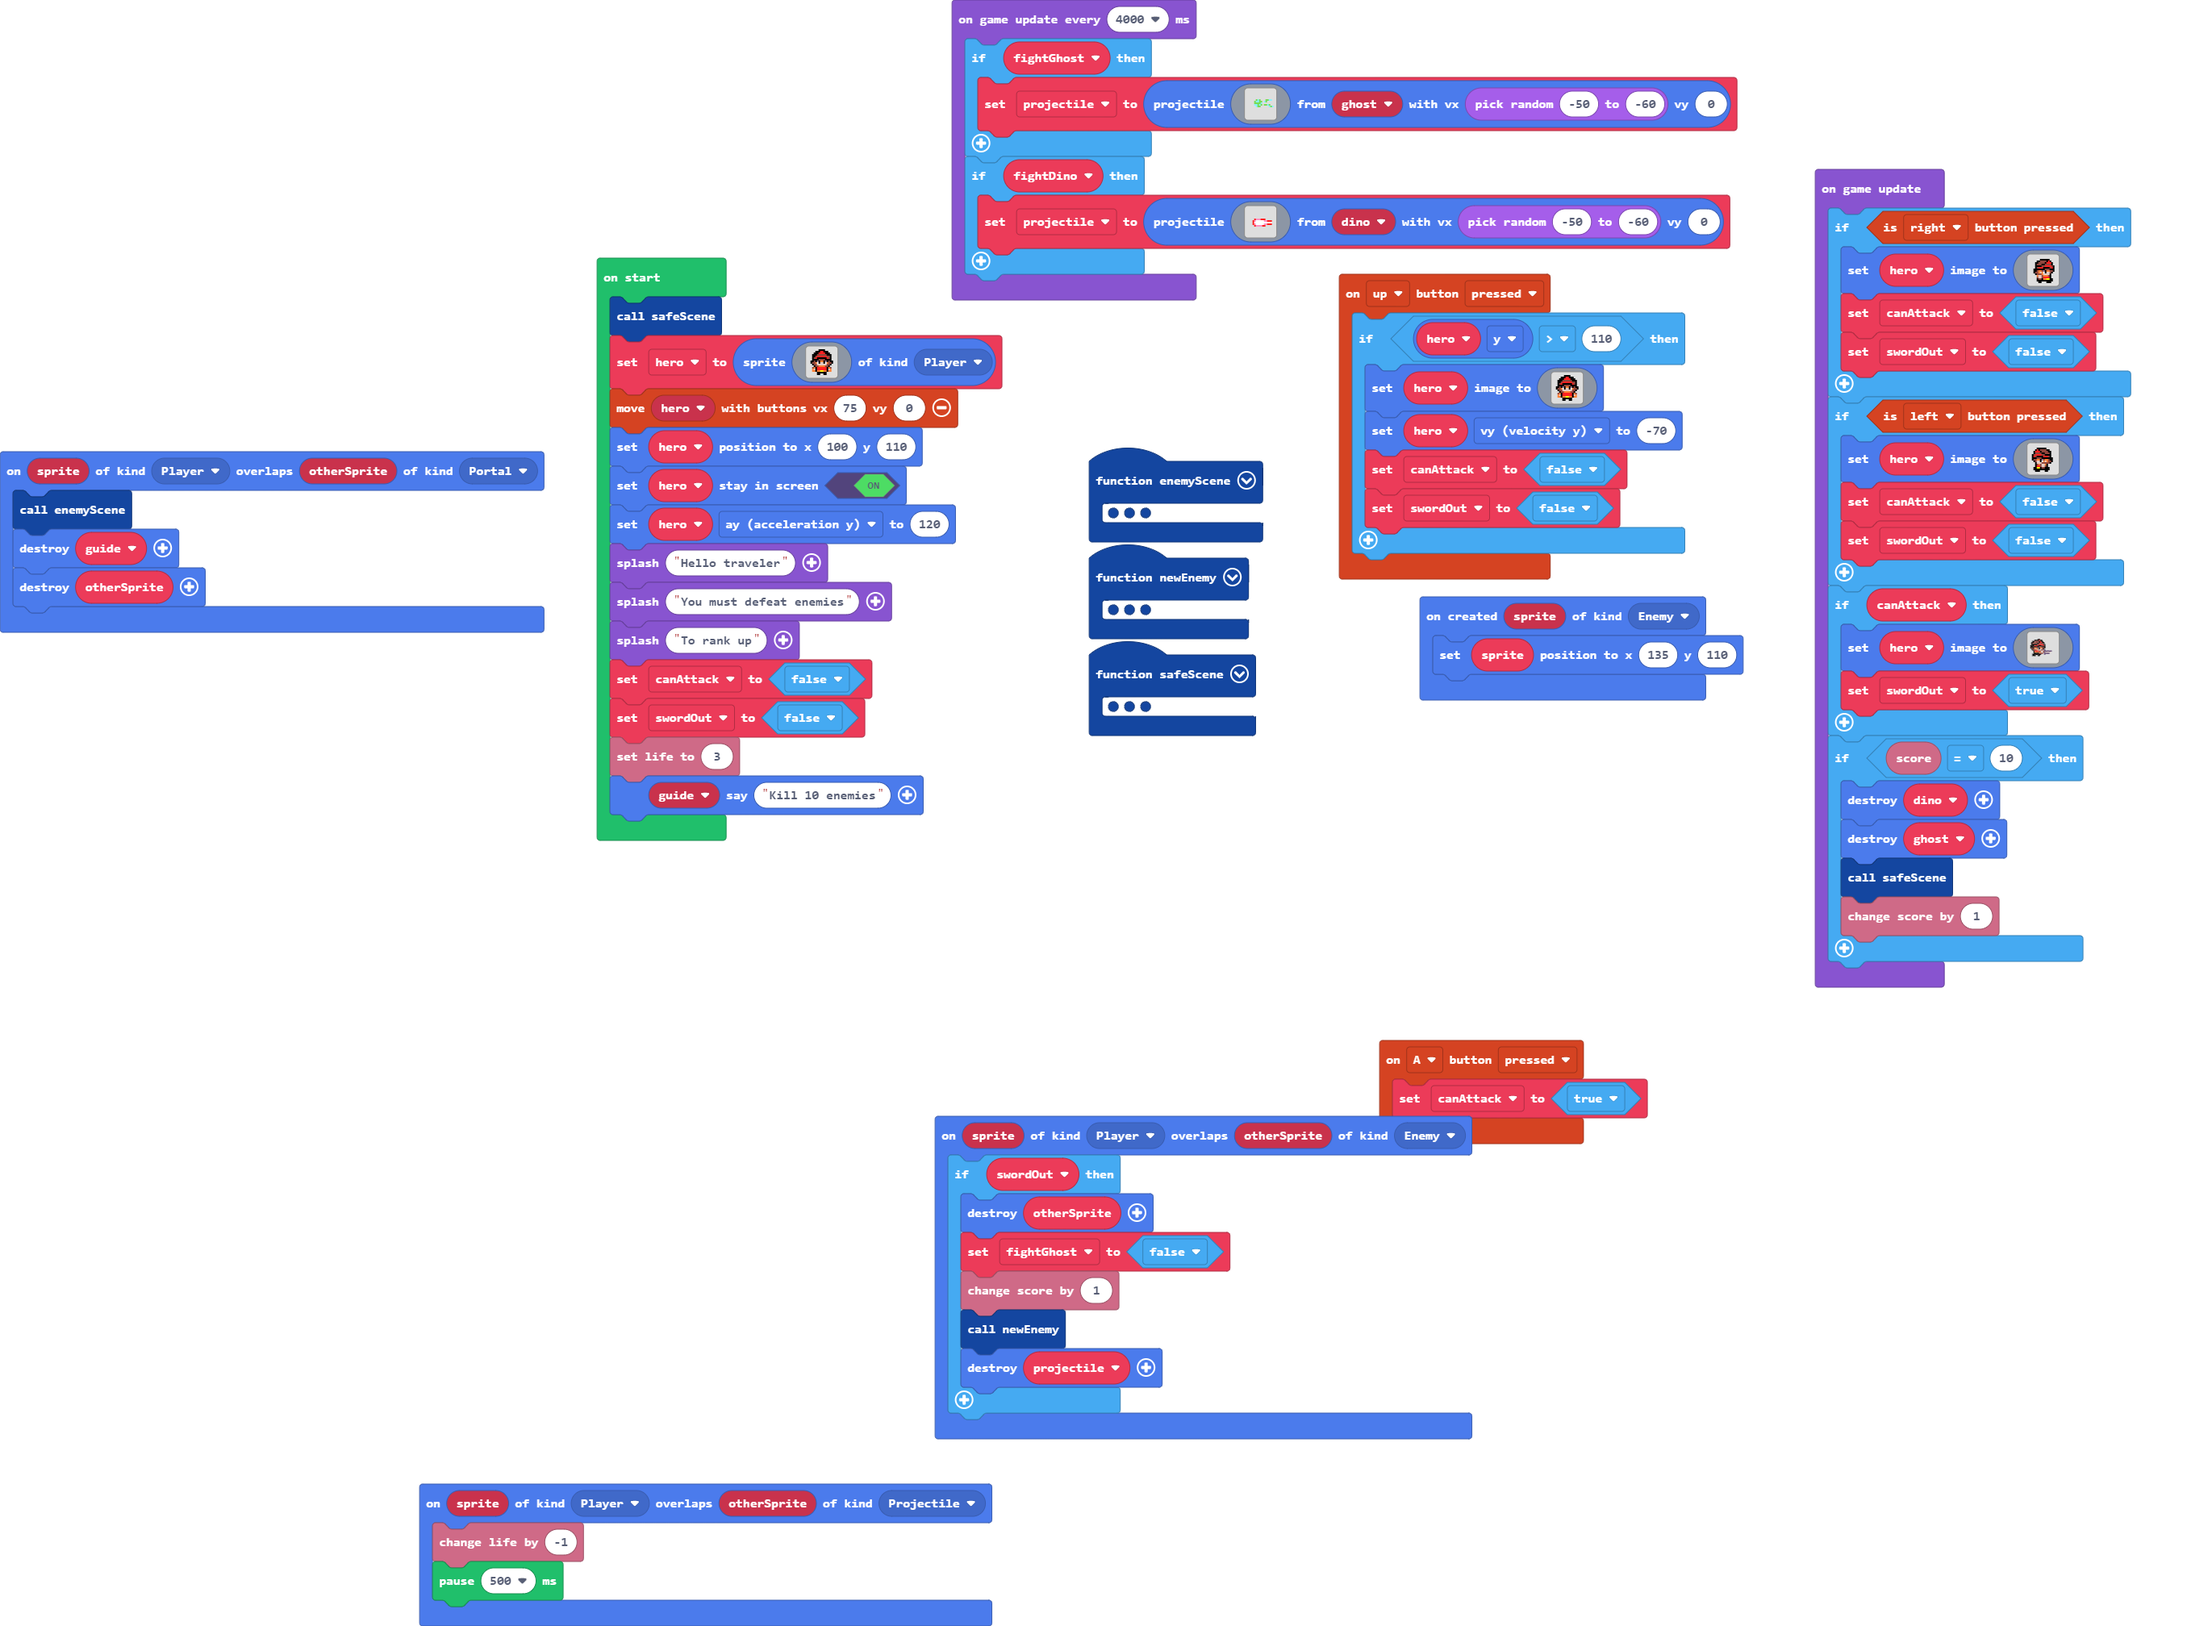
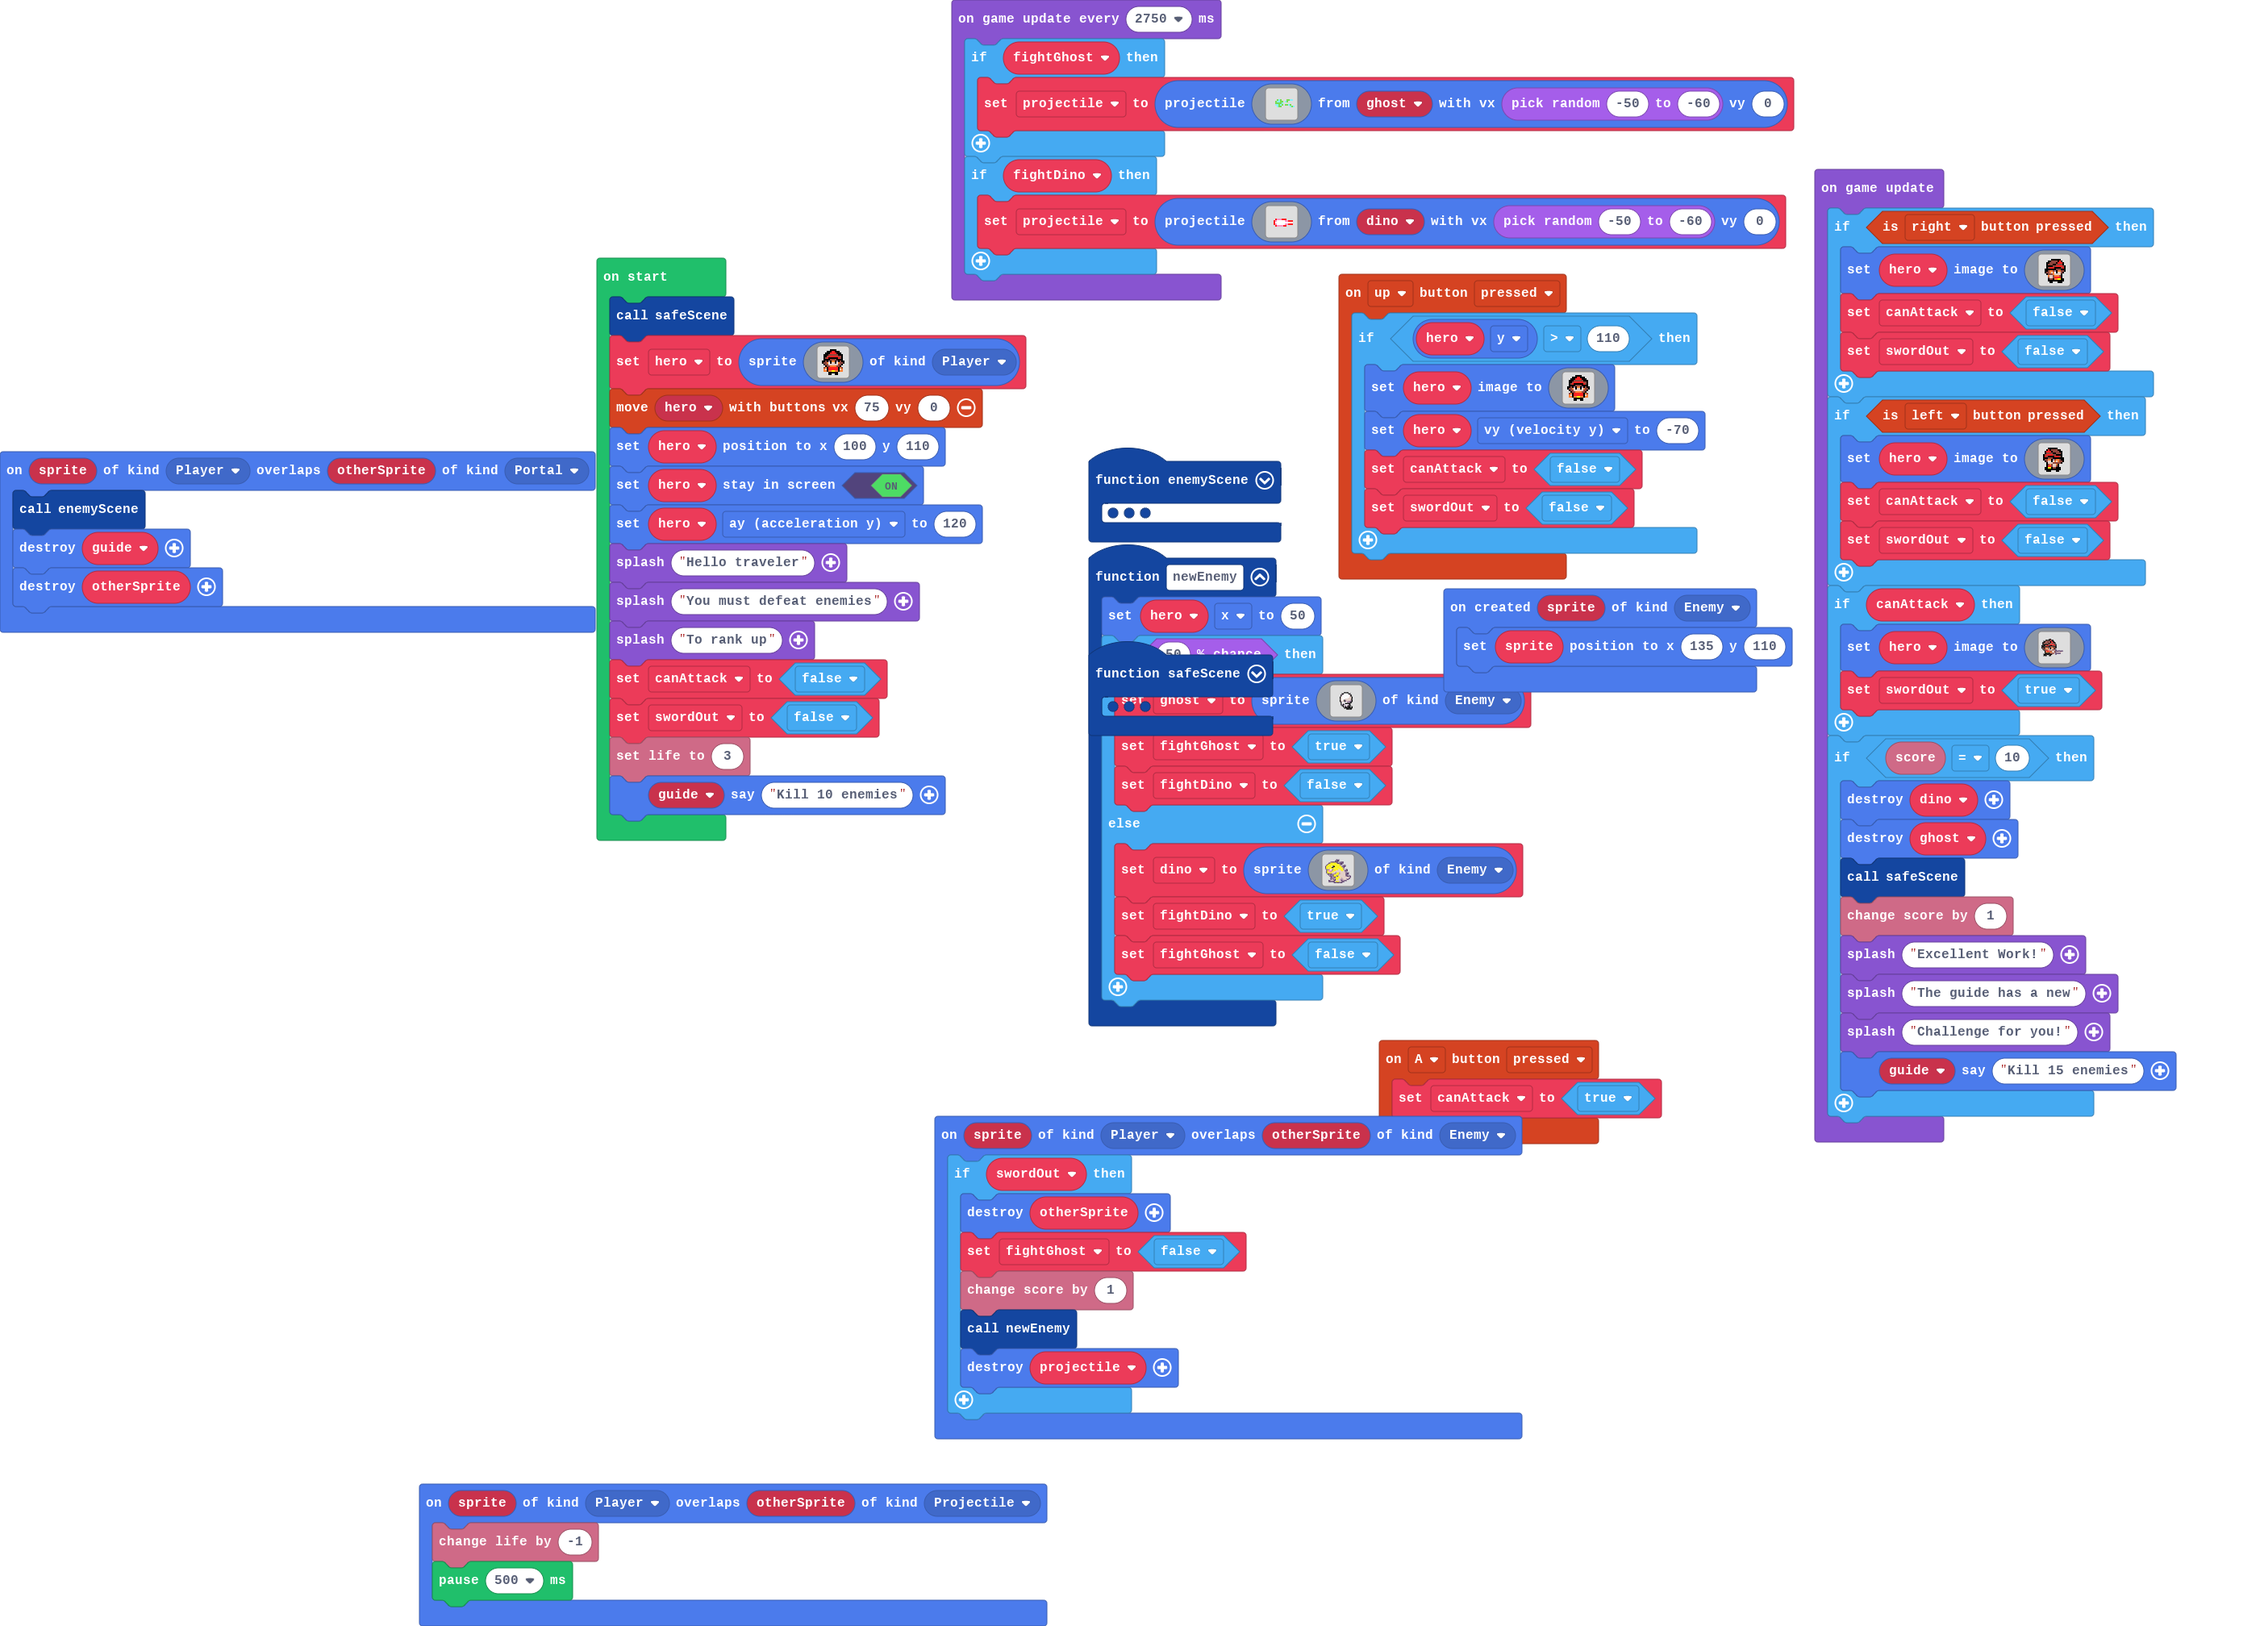
Update main.blocks, main.ts

Changed region(s): [[0.0, 0.0, 0.9915, 0.9375], [0.1859, 0.9062, 0.2789, 1.0], [0.4338, 0.9688, 0.4648, 1.0]]

diff --git a/main.ts b/main.ts
@@ -442,6 +442,48 @@ canAttack = false
 swordOut = false
 info.setLife(3)
 guide.sayText("Kill 10 enemies")
+game.onUpdateInterval(2750, function () {
+    if (fightGhost) {
+        projectile = sprites.createProjectileFromSprite(img`
+            . . . . . . . . . . . . . . . . 
+            . . . . . . . . . . . . . . . . 
+            . . . . . . . . . . . . . . . . 
+            . . . . . . . . . . . . . . . . 
+            . . . . . . . . . . . . . . . . 
+            . . . . . 7 9 7 . . . 7 7 9 9 . 
+            . . . . 7 9 9 7 7 . 9 7 . . . . 
+            . . . . 7 7 7 7 9 . . . . . . . 
+            . . . . 9 9 7 9 7 . 7 7 9 7 . . 
+            . . . . . 9 7 7 . . . . . 9 7 9 
+            . . . . . . . . . . . . . . . . 
+            . . . . . . . . . . . . . . . . 
+            . . . . . . . . . . . . . . . . 
+            . . . . . . . . . . . . . . . . 
+            . . . . . . . . . . . . . . . . 
+            . . . . . . . . . . . . . . . . 
+            `, ghost, randint(-50, -60), 0)
+    }
+    if (fightDino) {
+        projectile = sprites.createProjectileFromSprite(img`
+            . . . . . . . . . . . . . . . . 
+            . . . . . . . . . . . . . . . . 
+            . . . . . . . . . . . . . . . . 
+            . . . . . . . . . . . . . . . . 
+            . . . . . . . . . . . . . . . . 
+            . . . . . . . . . . . . . . . . 
+            . . . . 2 3 3 3 2 2 2 . . . . . 
+            . . . 2 3 1 1 1 1 1 3 3 2 2 2 . 
+            . . . 2 1 1 1 1 1 1 1 1 1 1 1 . 
+            . . . 2 3 1 1 1 1 1 3 3 2 2 2 . 
+            . . . . 2 3 3 3 3 2 2 . . . . . 
+            . . . . . . . . . . . . . . . . 
+            . . . . . . . . . . . . . . . . 
+            . . . . . . . . . . . . . . . . 
+            . . . . . . . . . . . . . . . . 
+            . . . . . . . . . . . . . . . . 
+            `, dino, randint(-50, -60), 0)
+    }
+})
 game.onUpdate(function () {
     if (controller.right.isPressed()) {
         hero.setImage(img`
@@ -513,47 +555,9 @@ game.onUpdate(function () {
         ghost.destroy()
         safeScene()
         info.changeScoreBy(1)
-    }
-})
-game.onUpdateInterval(4000, function () {
-    if (fightGhost) {
-        projectile = sprites.createProjectileFromSprite(img`
-            . . . . . . . . . . . . . . . . 
-            . . . . . . . . . . . . . . . . 
-            . . . . . . . . . . . . . . . . 
-            . . . . . . . . . . . . . . . . 
-            . . . . . . . . . . . . . . . . 
-            . . . . . 7 9 7 . . . 7 7 9 9 . 
-            . . . . 7 9 9 7 7 . 9 7 . . . . 
-            . . . . 7 7 7 7 9 . . . . . . . 
-            . . . . 9 9 7 9 7 . 7 7 9 7 . . 
-            . . . . . 9 7 7 . . . . . 9 7 9 
-            . . . . . . . . . . . . . . . . 
-            . . . . . . . . . . . . . . . . 
-            . . . . . . . . . . . . . . . . 
-            . . . . . . . . . . . . . . . . 
-            . . . . . . . . . . . . . . . . 
-            . . . . . . . . . . . . . . . . 
-            `, ghost, randint(-50, -60), 0)
-    }
-    if (fightDino) {
-        projectile = sprites.createProjectileFromSprite(img`
-            . . . . . . . . . . . . . . . . 
-            . . . . . . . . . . . . . . . . 
-            . . . . . . . . . . . . . . . . 
-            . . . . . . . . . . . . . . . . 
-            . . . . . . . . . . . . . . . . 
-            . . . . . . . . . . . . . . . . 
-            . . . . 2 3 3 3 2 2 2 . . . . . 
-            . . . 2 3 1 1 1 1 1 3 3 2 2 2 . 
-            . . . 2 1 1 1 1 1 1 1 1 1 1 1 . 
-            . . . 2 3 1 1 1 1 1 3 3 2 2 2 . 
-            . . . . 2 3 3 3 3 2 2 . . . . . 
-            . . . . . . . . . . . . . . . . 
-            . . . . . . . . . . . . . . . . 
-            . . . . . . . . . . . . . . . . 
-            . . . . . . . . . . . . . . . . 
-            . . . . . . . . . . . . . . . . 
-            `, dino, randint(-50, -60), 0)
+        game.splash("Excellent Work!")
+        game.splash("The guide has a new")
+        game.splash("Challenge for you!")
+        guide.sayText("Kill 15 enemies")
     }
 })
